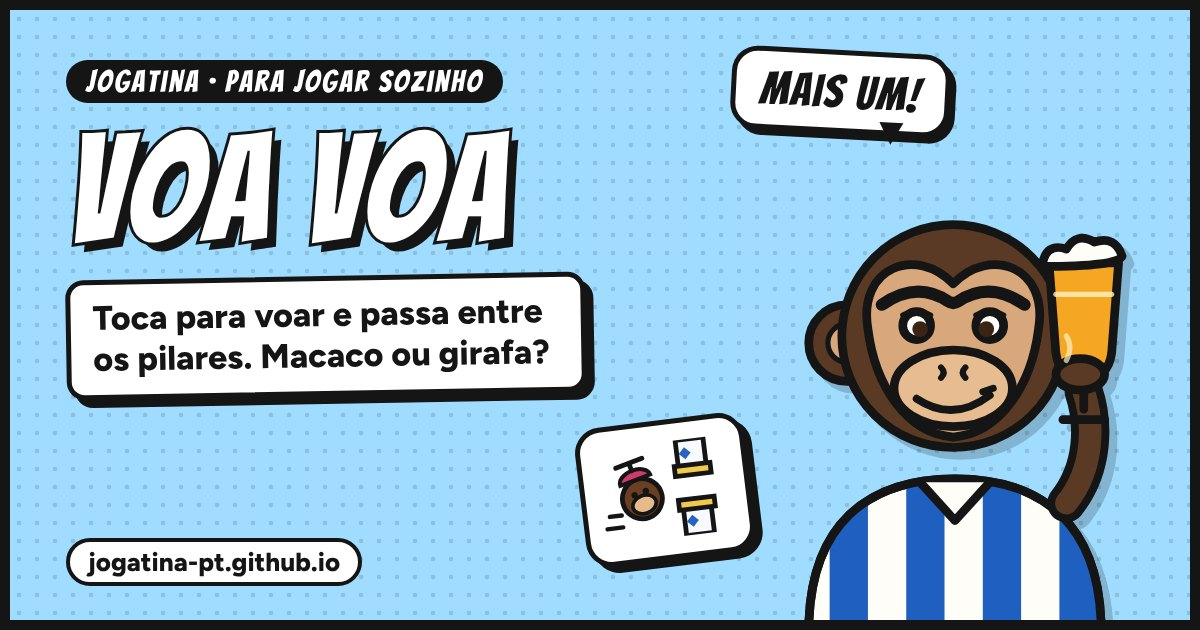
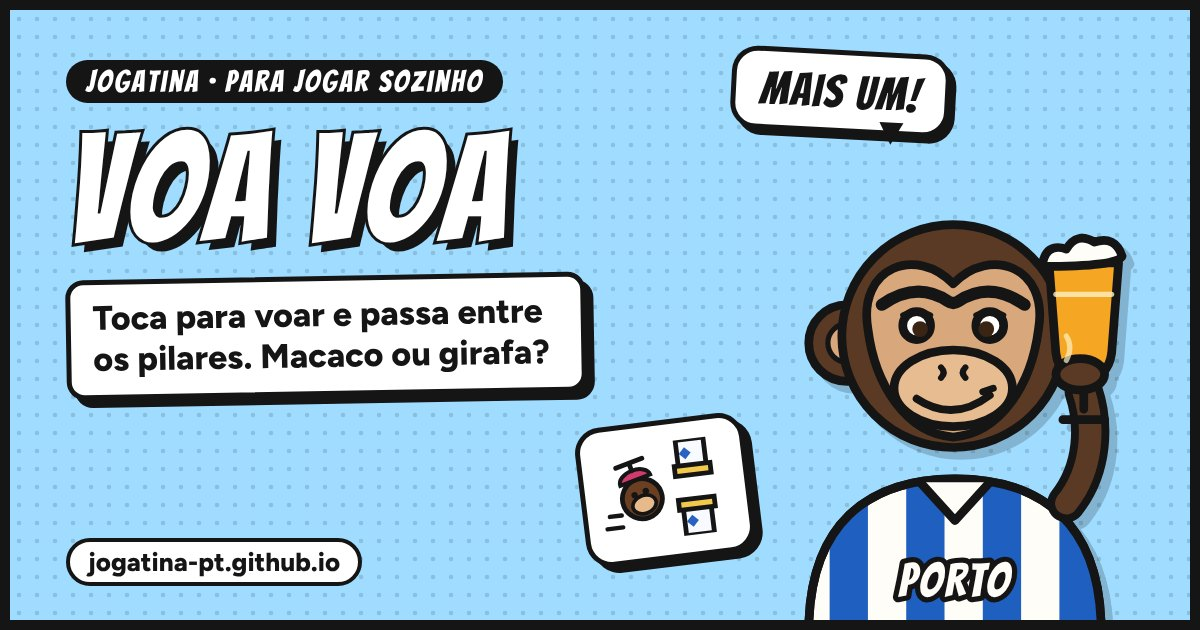
Macaco com PORTO escrito na camisola
Claude-Session: https://claude.ai/code/session_011LsVsj79WYP8BRWuYUNey5

Changed region(s): [[0.74, 0.8746, 0.8633, 0.9651]]

diff --git a/index.html b/index.html
@@ -260,6 +260,7 @@ header.top{flex:none}
 <g clip-path="url(#mcShirt)" stroke-width="0" fill="#1f5fc0"><rect x="40" y="170" width="22" height="110"/><rect x="84" y="170" width="22" height="110"/><rect x="128" y="170" width="22" height="110"/><rect x="172" y="170" width="22" height="110"/></g>
 <path d="M28 270C28 208 62 182 112 182C162 182 196 208 196 270Z" fill="none"/>
 <path d="M92 184l20 22l20-22" fill="#fffdf8"/>
+<text class="mc-txt" x="112" y="250" text-anchor="middle" font-family="Bangers, Impact, sans-serif" font-size="27" letter-spacing="1.5" fill="#fffdf8" stroke="#151515" stroke-width="6" paint-order="stroke">PORTO</text>
 <circle cx="50" cy="104" r="22" fill="#5a3a24"/><circle cx="50" cy="104" r="11" fill="#d9a77c" stroke-width="3"/>
 <circle cx="172" cy="104" r="22" fill="#5a3a24"/><circle cx="172" cy="104" r="11" fill="#d9a77c" stroke-width="3"/>
 <circle cx="111" cy="100" r="64" fill="#5a3a24"/>
@@ -295,6 +296,7 @@ header.top{flex:none}
 <g clip-path="url(#mcShirt2)" stroke-width="0" fill="#1f5fc0"><rect x="40" y="170" width="22" height="110"/><rect x="84" y="170" width="22" height="110"/><rect x="128" y="170" width="22" height="110"/><rect x="172" y="170" width="22" height="110"/></g>
 <path d="M28 270C28 208 62 182 112 182C162 182 196 208 196 270Z" fill="none"/>
 <path d="M92 184l20 22l20-22" fill="#fffdf8"/>
+<text class="mc-txt" x="112" y="250" text-anchor="middle" font-family="Bangers, Impact, sans-serif" font-size="27" letter-spacing="1.5" fill="#fffdf8" stroke="#151515" stroke-width="6" paint-order="stroke">PORTO</text>
 <circle cx="50" cy="104" r="22" fill="#5a3a24"/><circle cx="50" cy="104" r="11" fill="#d9a77c" stroke-width="3"/>
 <circle cx="172" cy="104" r="22" fill="#5a3a24"/><circle cx="172" cy="104" r="11" fill="#d9a77c" stroke-width="3"/>
 <circle cx="111" cy="100" r="64" fill="#5a3a24"/>

diff --git a/maisuma/index.html b/maisuma/index.html
@@ -246,6 +246,7 @@ input{border:3px solid var(--stroke);box-shadow:3px 3px 0 var(--stroke)}
 <g clip-path="url(#mcShirt)" stroke-width="0" fill="#1f5fc0"><rect x="40" y="170" width="22" height="110"/><rect x="84" y="170" width="22" height="110"/><rect x="128" y="170" width="22" height="110"/><rect x="172" y="170" width="22" height="110"/></g>
 <path d="M28 270C28 208 62 182 112 182C162 182 196 208 196 270Z" fill="none"/>
 <path d="M92 184l20 22l20-22" fill="#fffdf8"/>
+<text class="mc-txt" x="112" y="250" text-anchor="middle" font-family="Bangers, Impact, sans-serif" font-size="27" letter-spacing="1.5" fill="#fffdf8" stroke="#151515" stroke-width="6" paint-order="stroke">PORTO</text>
 <circle cx="50" cy="104" r="22" fill="#5a3a24"/><circle cx="50" cy="104" r="11" fill="#d9a77c" stroke-width="3"/>
 <circle cx="172" cy="104" r="22" fill="#5a3a24"/><circle cx="172" cy="104" r="11" fill="#d9a77c" stroke-width="3"/>
 <circle cx="111" cy="100" r="64" fill="#5a3a24"/>

diff --git a/quemsou/index.html b/quemsou/index.html
@@ -303,6 +303,7 @@ input{border:3px solid var(--stroke);box-shadow:3px 3px 0 var(--stroke)}
 <g clip-path="url(#mcShirt)" stroke-width="0" fill="#1f5fc0"><rect x="40" y="170" width="22" height="110"/><rect x="84" y="170" width="22" height="110"/><rect x="128" y="170" width="22" height="110"/><rect x="172" y="170" width="22" height="110"/></g>
 <path d="M28 270C28 208 62 182 112 182C162 182 196 208 196 270Z" fill="none"/>
 <path d="M92 184l20 22l20-22" fill="#fffdf8"/>
+<text class="mc-txt" x="112" y="250" text-anchor="middle" font-family="Bangers, Impact, sans-serif" font-size="27" letter-spacing="1.5" fill="#fffdf8" stroke="#151515" stroke-width="6" paint-order="stroke">PORTO</text>
 <circle cx="50" cy="104" r="22" fill="#5a3a24"/><circle cx="50" cy="104" r="11" fill="#d9a77c" stroke-width="3"/>
 <circle cx="172" cy="104" r="22" fill="#5a3a24"/><circle cx="172" cy="104" r="11" fill="#d9a77c" stroke-width="3"/>
 <circle cx="111" cy="100" r="64" fill="#5a3a24"/>

diff --git a/tasca/index.html b/tasca/index.html
@@ -245,6 +245,7 @@ input{border:3px solid var(--stroke);box-shadow:3px 3px 0 var(--stroke)}
 <g clip-path="url(#mcShirt)" stroke-width="0" fill="#1f5fc0"><rect x="40" y="170" width="22" height="110"/><rect x="84" y="170" width="22" height="110"/><rect x="128" y="170" width="22" height="110"/><rect x="172" y="170" width="22" height="110"/></g>
 <path d="M28 270C28 208 62 182 112 182C162 182 196 208 196 270Z" fill="none"/>
 <path d="M92 184l20 22l20-22" fill="#fffdf8"/>
+<text class="mc-txt" x="112" y="250" text-anchor="middle" font-family="Bangers, Impact, sans-serif" font-size="27" letter-spacing="1.5" fill="#fffdf8" stroke="#151515" stroke-width="6" paint-order="stroke">PORTO</text>
 <circle cx="50" cy="104" r="22" fill="#5a3a24"/><circle cx="50" cy="104" r="11" fill="#d9a77c" stroke-width="3"/>
 <circle cx="172" cy="104" r="22" fill="#5a3a24"/><circle cx="172" cy="104" r="11" fill="#d9a77c" stroke-width="3"/>
 <circle cx="111" cy="100" r="64" fill="#5a3a24"/>

diff --git a/testa/index.html b/testa/index.html
@@ -197,6 +197,7 @@ input{border:3px solid var(--stroke);box-shadow:3px 3px 0 var(--stroke)}
 <g clip-path="url(#mcShirt)" stroke-width="0" fill="#1f5fc0"><rect x="40" y="170" width="22" height="110"/><rect x="84" y="170" width="22" height="110"/><rect x="128" y="170" width="22" height="110"/><rect x="172" y="170" width="22" height="110"/></g>
 <path d="M28 270C28 208 62 182 112 182C162 182 196 208 196 270Z" fill="none"/>
 <path d="M92 184l20 22l20-22" fill="#fffdf8"/>
+<text class="mc-txt" x="112" y="250" text-anchor="middle" font-family="Bangers, Impact, sans-serif" font-size="27" letter-spacing="1.5" fill="#fffdf8" stroke="#151515" stroke-width="6" paint-order="stroke">PORTO</text>
 <circle cx="50" cy="104" r="22" fill="#5a3a24"/><circle cx="50" cy="104" r="11" fill="#d9a77c" stroke-width="3"/>
 <circle cx="172" cy="104" r="22" fill="#5a3a24"/><circle cx="172" cy="104" r="11" fill="#d9a77c" stroke-width="3"/>
 <circle cx="111" cy="100" r="64" fill="#5a3a24"/>
